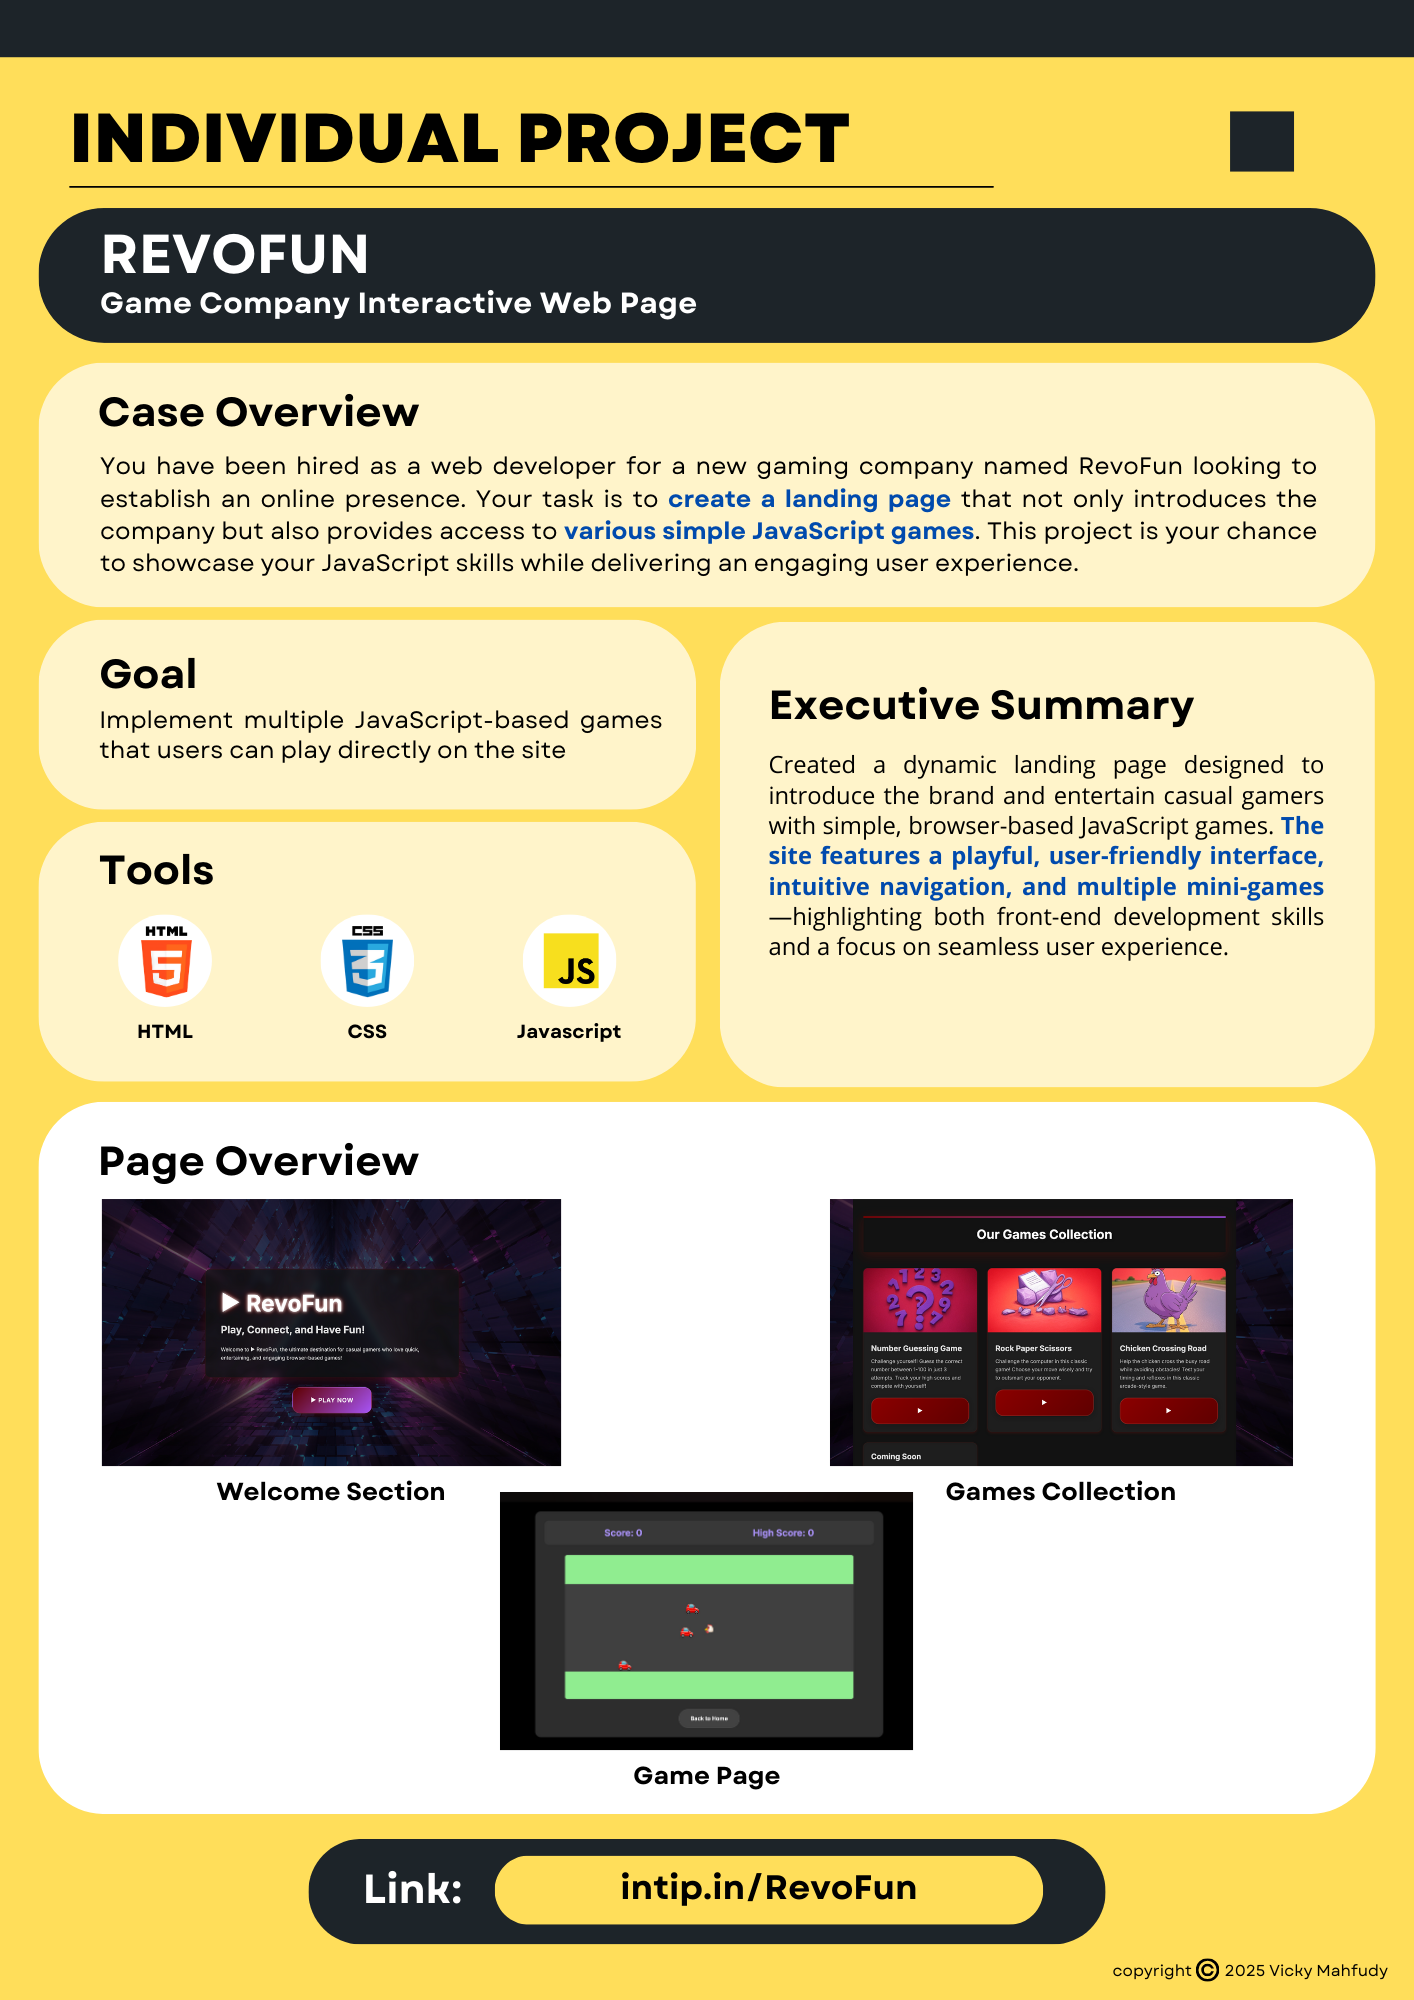
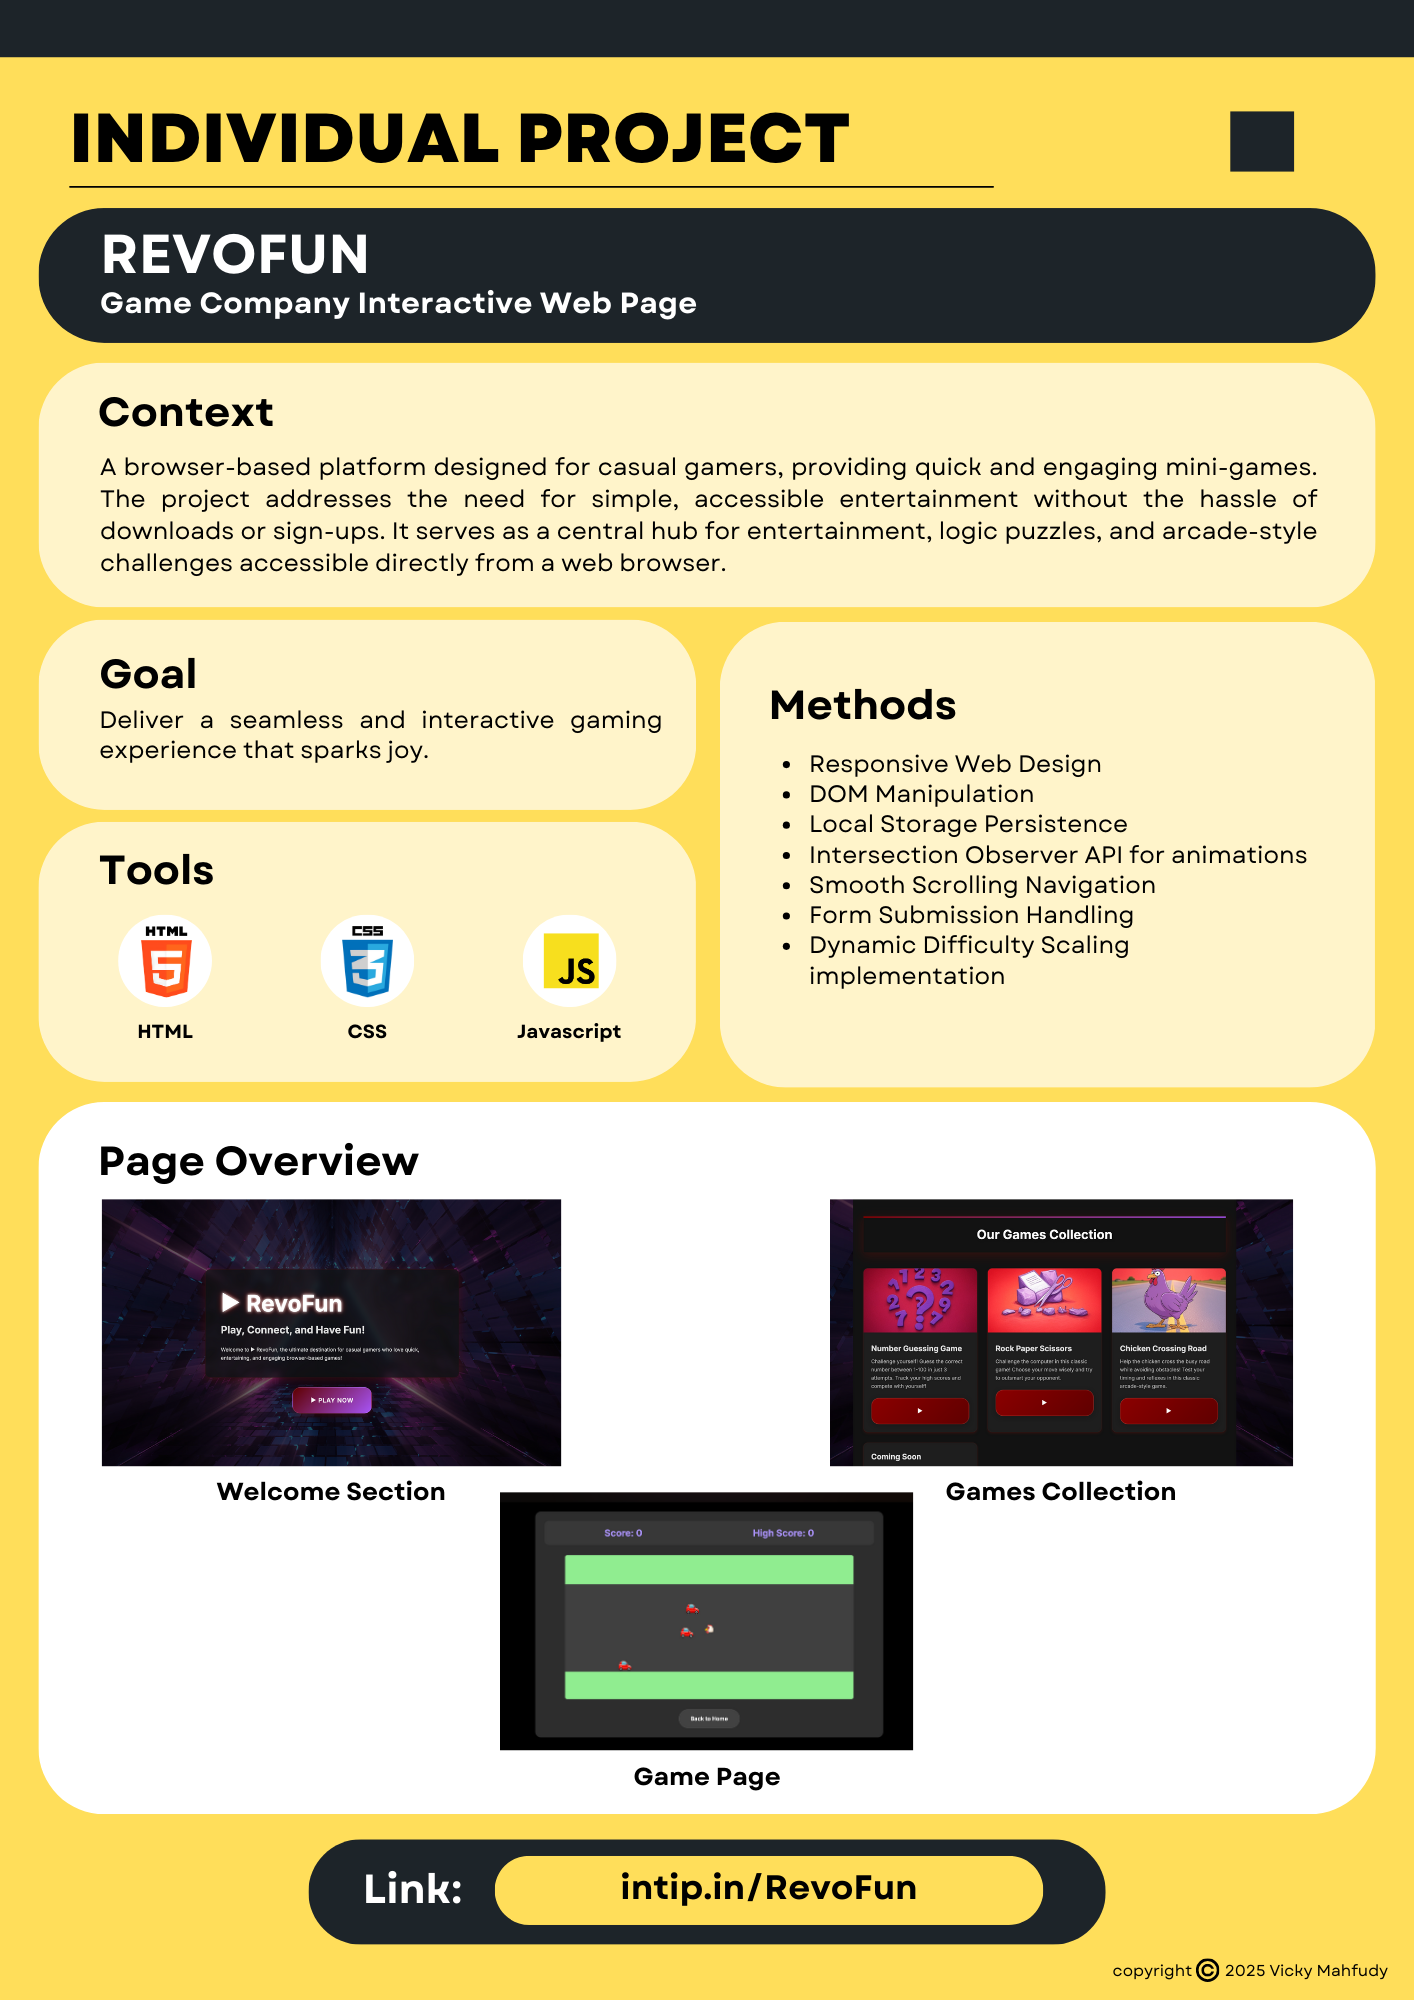
update porto

diff --git a/index.html b/index.html
@@ -970,35 +970,6 @@
             <div class="position-relative overflow-hidden mb-2">
               <img
                 class="img-fluid rounded w-100"
-                src=""
-                alt=""
-              />
-              <!-- <div
-                class="portfolio-btn bg-primary d-flex align-items-center justify-content-center"
-              >
-                <a
-                  class="btn btn-sm btn-outline-dark py-2"
-                  href="img/marketingcampaign.png"
-                  data-lightbox="portfolio"
-                >
-                  <i class="fa fa-search-plus"></i>
-                </a>
-                <a
-                  data-target="#marketingcampaign"
-                  data-toggle="modal"
-                  class="btn btn-sm btn-outline-dark py-2"
-                  href="#marketingcampaign"
-                  >Full Deck</a
-                >
-              </div> -->
-            </div>
-          </div>
-          <div
-            class="col-lg-4 col-md-6 mb-4 portfolio-item second animation-element up"
-          >
-            <div class="position-relative overflow-hidden mb-2">
-              <img
-                class="img-fluid rounded w-100"
                 src="img/revofun.png"
                 alt=""
               />
@@ -1021,32 +992,57 @@
             </div>
           </div>
           <div
-            class="col-lg-4 col-md-6 mb-4 portfolio-item third animation-element left"
+            class="col-lg-4 col-md-6 mb-4 portfolio-item second animation-element up"
           >
             <div class="position-relative overflow-hidden mb-2">
               <img
                 class="img-fluid rounded w-100"
-                src=""
+                src="img/revoshop.png"
                 alt=""
               />
-              <!-- <div
+              <div
                 class="portfolio-btn bg-primary d-flex align-items-center justify-content-center"
               >
                 <a
                   class="btn btn-sm btn-outline-dark py-2"
-                  href="img/marketingcampaign.png"
+                  href="img/revoshop.png"
                   data-lightbox="portfolio"
                 >
                   <i class="fa fa-search-plus"></i>
                 </a>
                 <a
-                  data-target="#marketingcampaign"
-                  data-toggle="modal"
                   class="btn btn-sm btn-outline-dark py-2"
-                  href="#marketingcampaign"
-                  >Full Deck</a
+                  href="https://intip.in/RevoShop"
+                  >Full Page</a
                 >
-              </div> -->
+              </div>
+            </div>
+          </div>
+          <div
+            class="col-lg-4 col-md-6 mb-4 portfolio-item third animation-element left"
+          >
+            <div class="position-relative overflow-hidden mb-2">
+              <img
+                class="img-fluid rounded w-100"
+                src="img/revobank.png"
+                alt=""
+              />
+              <div
+                class="portfolio-btn bg-primary d-flex align-items-center justify-content-center"
+              >
+                <a
+                  class="btn btn-sm btn-outline-dark py-2"
+                  href="img/revobank.png"
+                  data-lightbox="portfolio"
+                >
+                  <i class="fa fa-search-plus"></i>
+                </a>
+                <a
+                  class="btn btn-sm btn-outline-dark py-2"
+                  href="https://intip.in/RevoBank"
+                  >Full Page</a
+                >
+              </div>
             </div>
           </div>
         </div>
